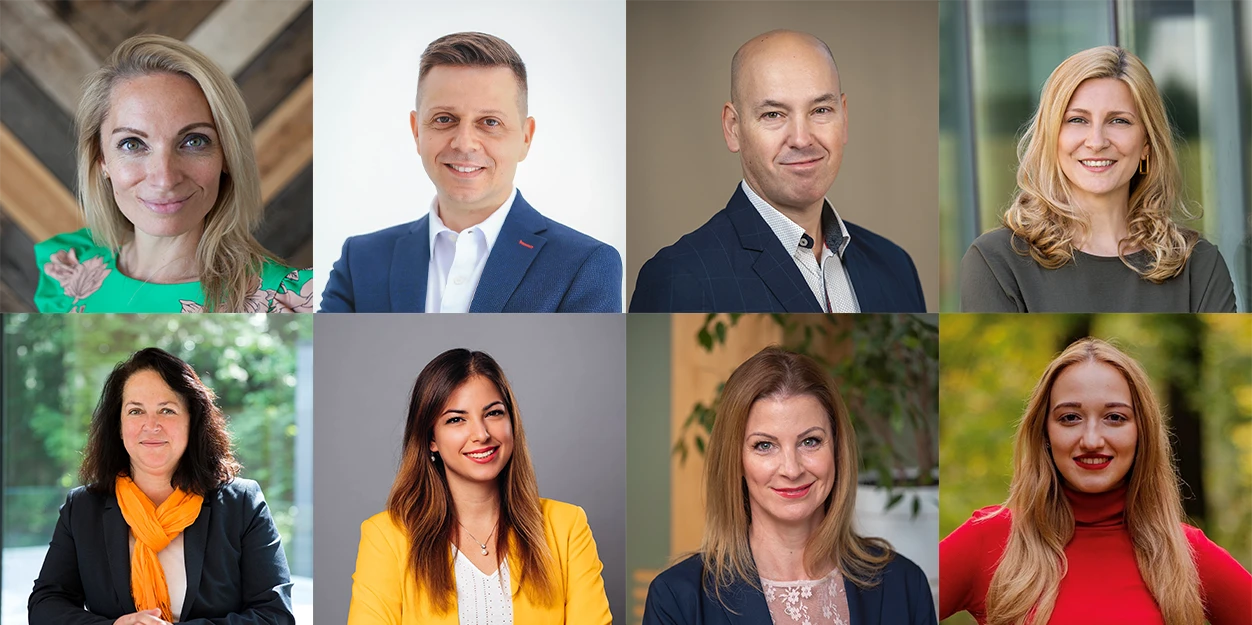
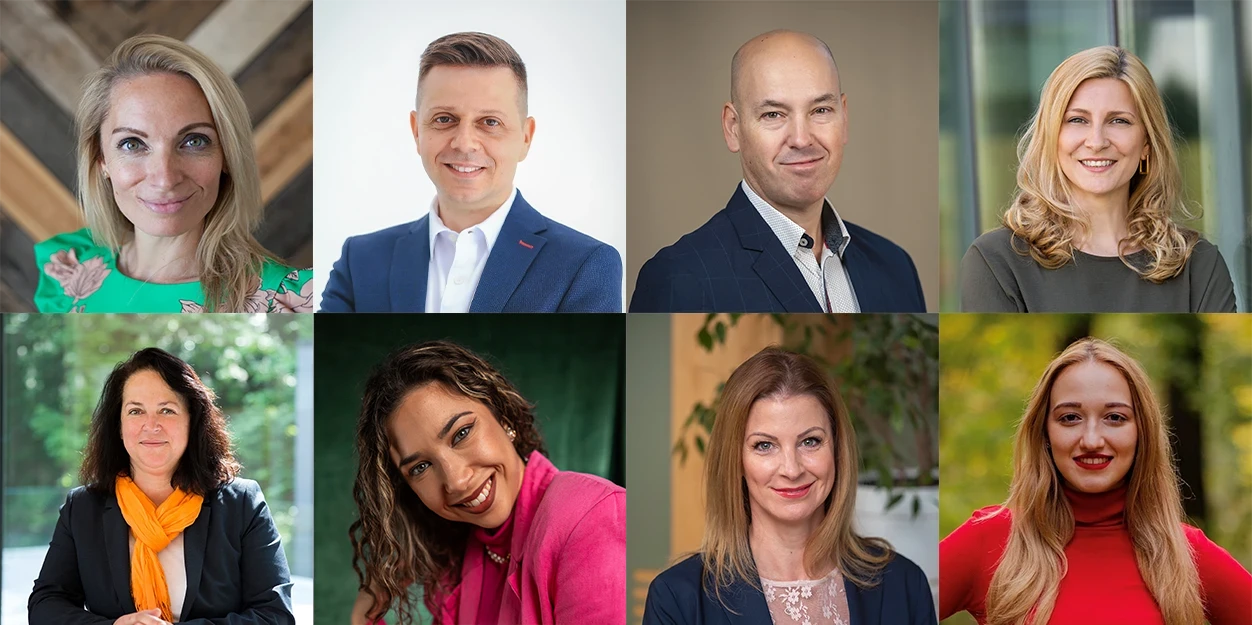
hanga levéve

Changed region(s): [[0.2492, 0.4864, 0.4984, 1.0]]

diff --git a/app/Components/UI/Csapat.jsx b/app/Components/UI/Csapat.jsx
@@ -4,15 +4,15 @@ import CsapatTile from './CsapatTile'
 export default function Csapat() {
   return (
     <div className='grid lg:grid-cols-3 grid-cols-2 lg:gap-8 gap-4'>
-        <CsapatTile title={'Mézes Áron'} post={'Ügyvezető'} image={'/csapat/mezes-aron.webp'} info={'mezes-aron'}/>
-        <CsapatTile title={'Mézes-Lendvai Dorottya'} post={'Szakmai vezető'} image={'/csapat/mezes-lendvai-dorottya.webp'} info={'mezes-lendvai-dorottya'}/>
-        <CsapatTile title={'Dr. Király Zsolt'} post={'Humánfejlesztő, HR tanácsadó'} image={'/csapat/dr-kiraly-zsolt.webp'} info={'dr-kiraly-zsolt'}/>
-        <CsapatTile title={'Dömötör Katalin'} post={'HR tanácsadó, coach, tréner'} image={'/csapat/domotor-katalin.webp'} info={'domotor-katalin'}/>
-        <CsapatTile title={'Seres Nikolett'} post={'Kommunikációs tanácsadó, Employer branding és élményszakértő'} image={'/csapat/seres-nikolett.webp'} info={'seres-nikolett'}/>
-        <CsapatTile title={'Tóth Kinga'} post={'Ifjúsági- és gyermek coach'} image={'/csapat/toth-kinga.webp'} info={'toth-kinga'}/>
-        <CsapatTile title={'Belayane Najoua'} post={'PR, Kommunikáció ExpertZ'} image={'/csapat/belayane-najoua.webp'} info={'belayane-najoua'}/>
-        <CsapatTile title={'Mézes Hanga'} post={'Talent management ExpertZ'} image={'/csapat/mezes-hanga.webp'} info={'mezes-hanga'}/>
-        <CsapatTile title={'Pájer Kata'} post={'Recruitment ExpertZ'} image={'/csapat/pajer-kata.webp'} info={'pajer-kata'}/>
+      <CsapatTile title={'Mézes Áron'} post={'Ügyvezető'} image={'/csapat/mezes-aron.webp'} info={'mezes-aron'} />
+      <CsapatTile title={'Mézes-Lendvai Dorottya'} post={'Szakmai vezető'} image={'/csapat/mezes-lendvai-dorottya.webp'} info={'mezes-lendvai-dorottya'} />
+      <CsapatTile title={'Dr. Király Zsolt'} post={'Humánfejlesztő, HR tanácsadó'} image={'/csapat/dr-kiraly-zsolt.webp'} info={'dr-kiraly-zsolt'} />
+      <CsapatTile title={'Dömötör Katalin'} post={'HR tanácsadó, coach, tréner'} image={'/csapat/domotor-katalin.webp'} info={'domotor-katalin'} />
+      <CsapatTile title={'Seres Nikolett'} post={'Kommunikációs tanácsadó, Employer branding és élményszakértő'} image={'/csapat/seres-nikolett.webp'} info={'seres-nikolett'} />
+      <CsapatTile title={'Tóth Kinga'} post={'Ifjúsági- és gyermek coach'} image={'/csapat/toth-kinga.webp'} info={'toth-kinga'} />
+      <CsapatTile title={'Belayane Najoua'} post={'PR, Kommunikáció ExpertZ'} image={'/csapat/belayane-najoua.webp'} info={'belayane-najoua'} />
+      {/*<CsapatTile title={'Mézes Hanga'} post={'Talent management ExpertZ'} image={'/csapat/mezes-hanga.webp'} info={'mezes-hanga'}/>*/}
+      <CsapatTile title={'Pájer Kata'} post={'Recruitment ExpertZ'} image={'/csapat/pajer-kata.webp'} info={'pajer-kata'} />
     </div>
   )
 }
